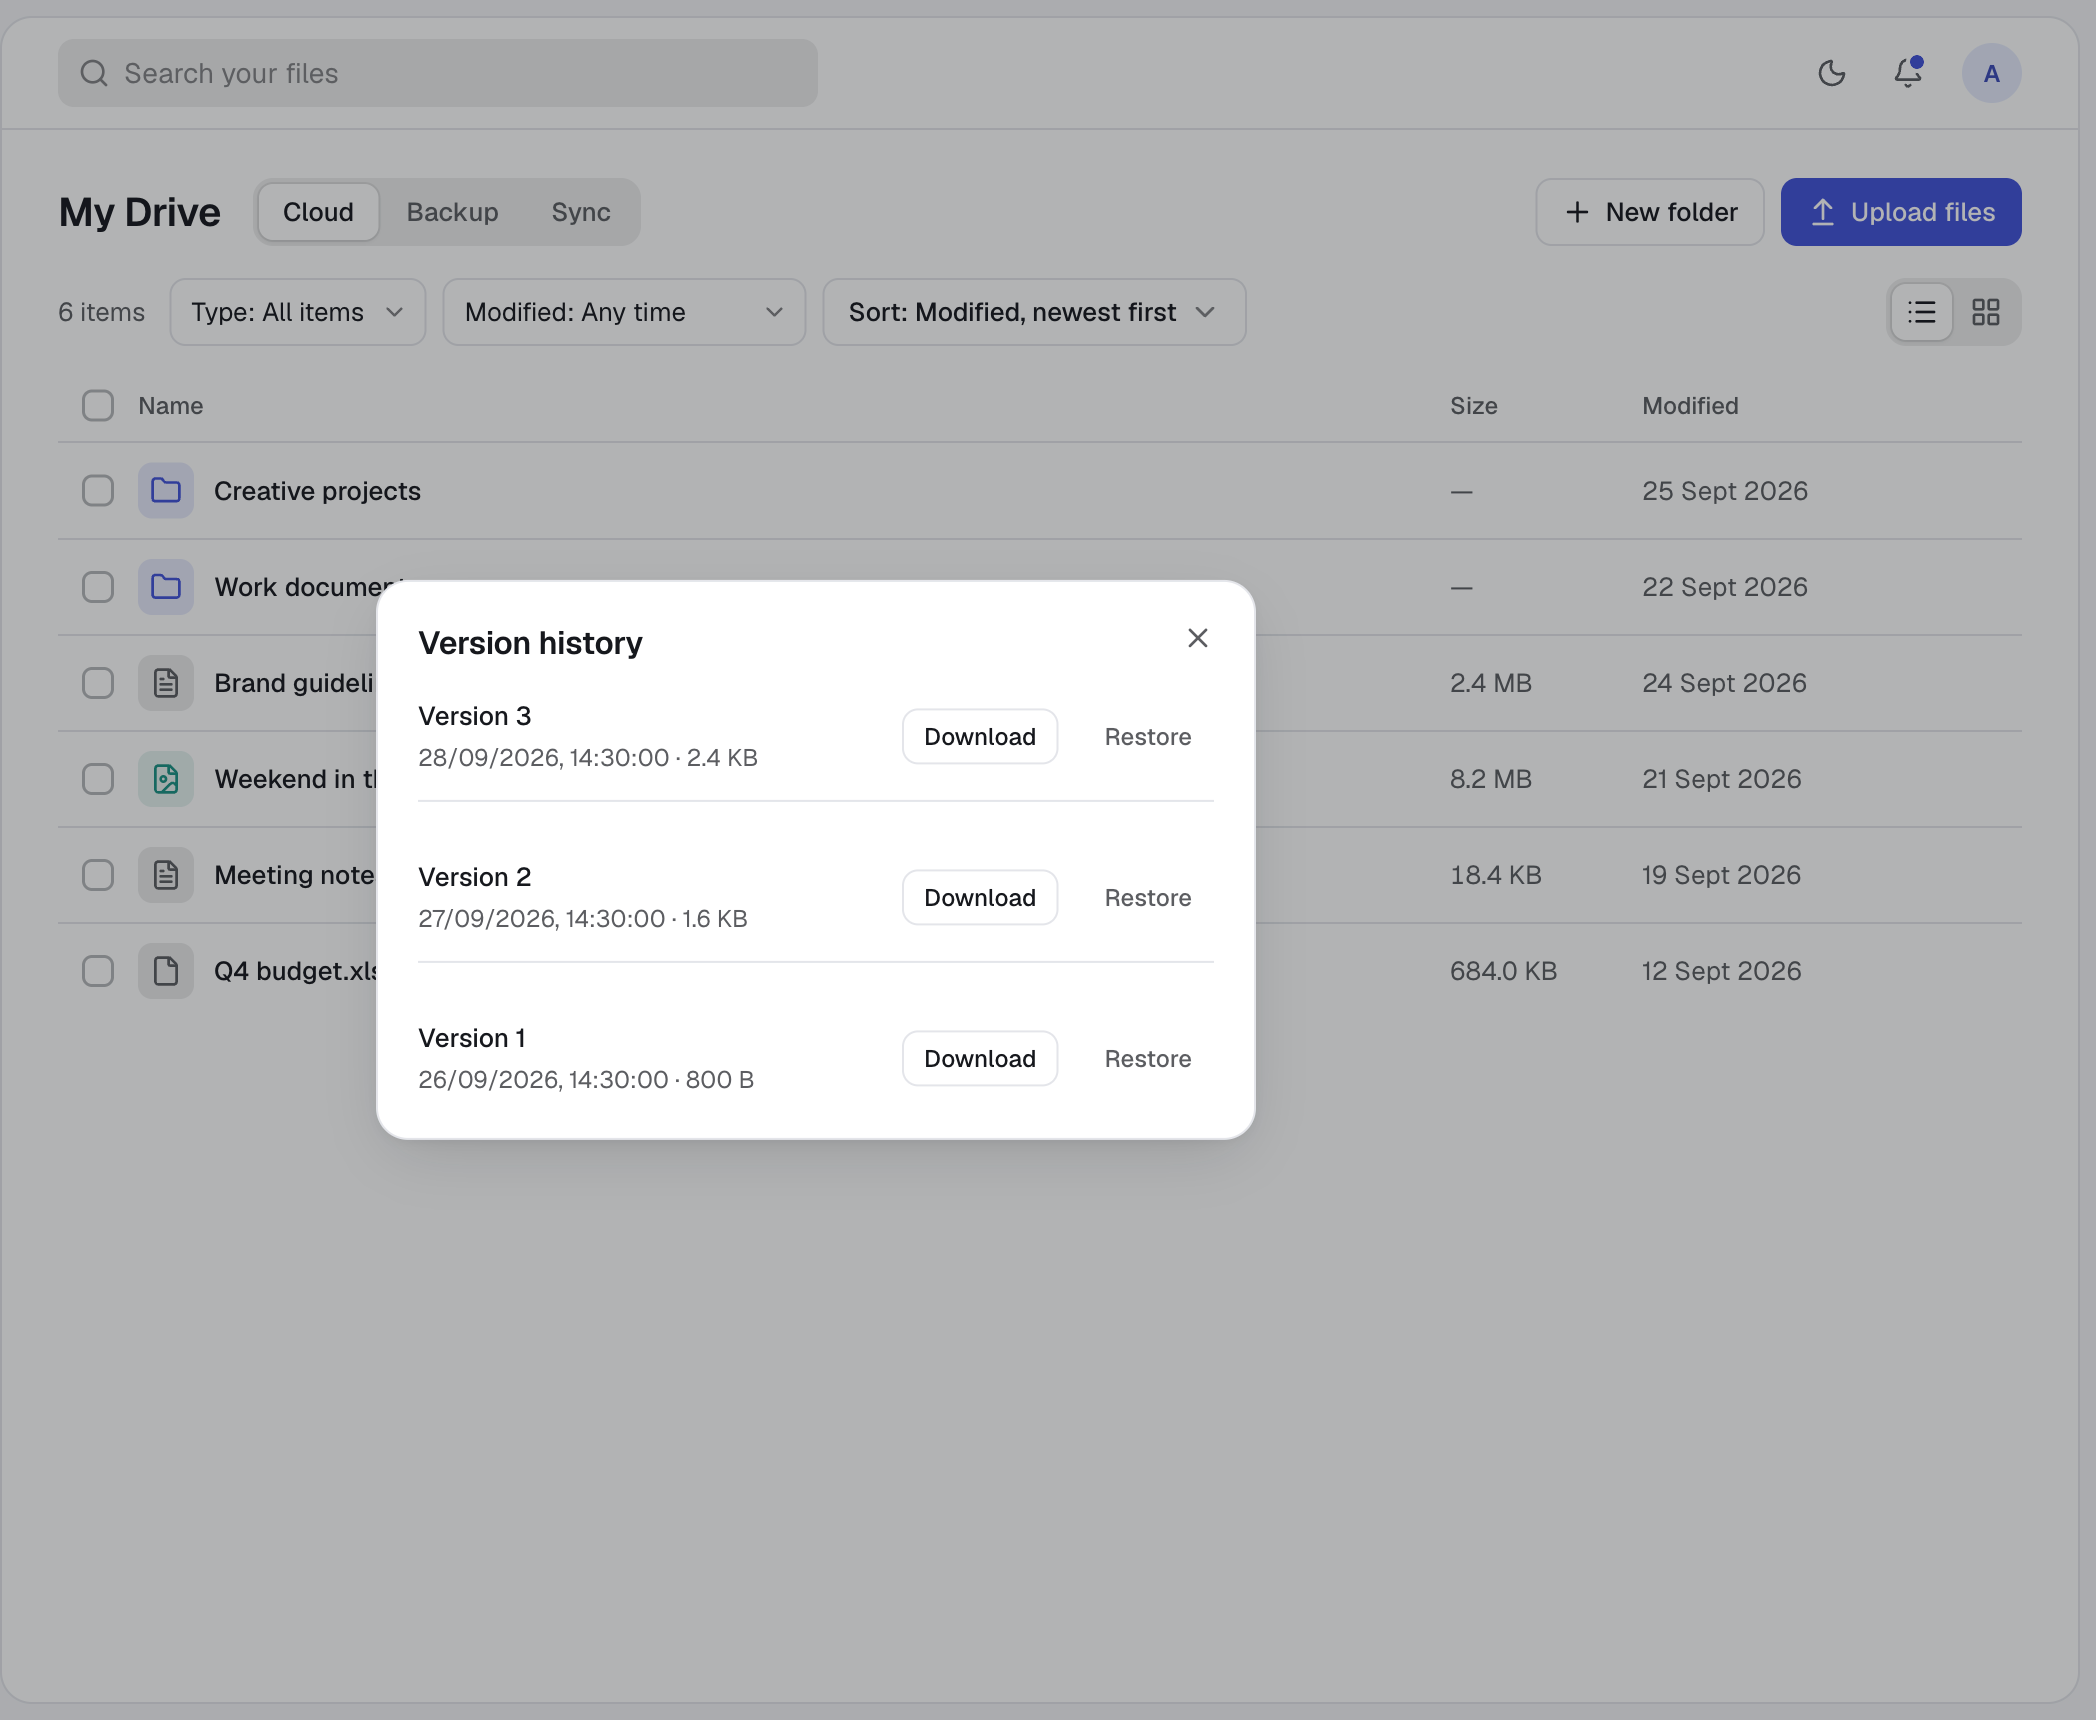
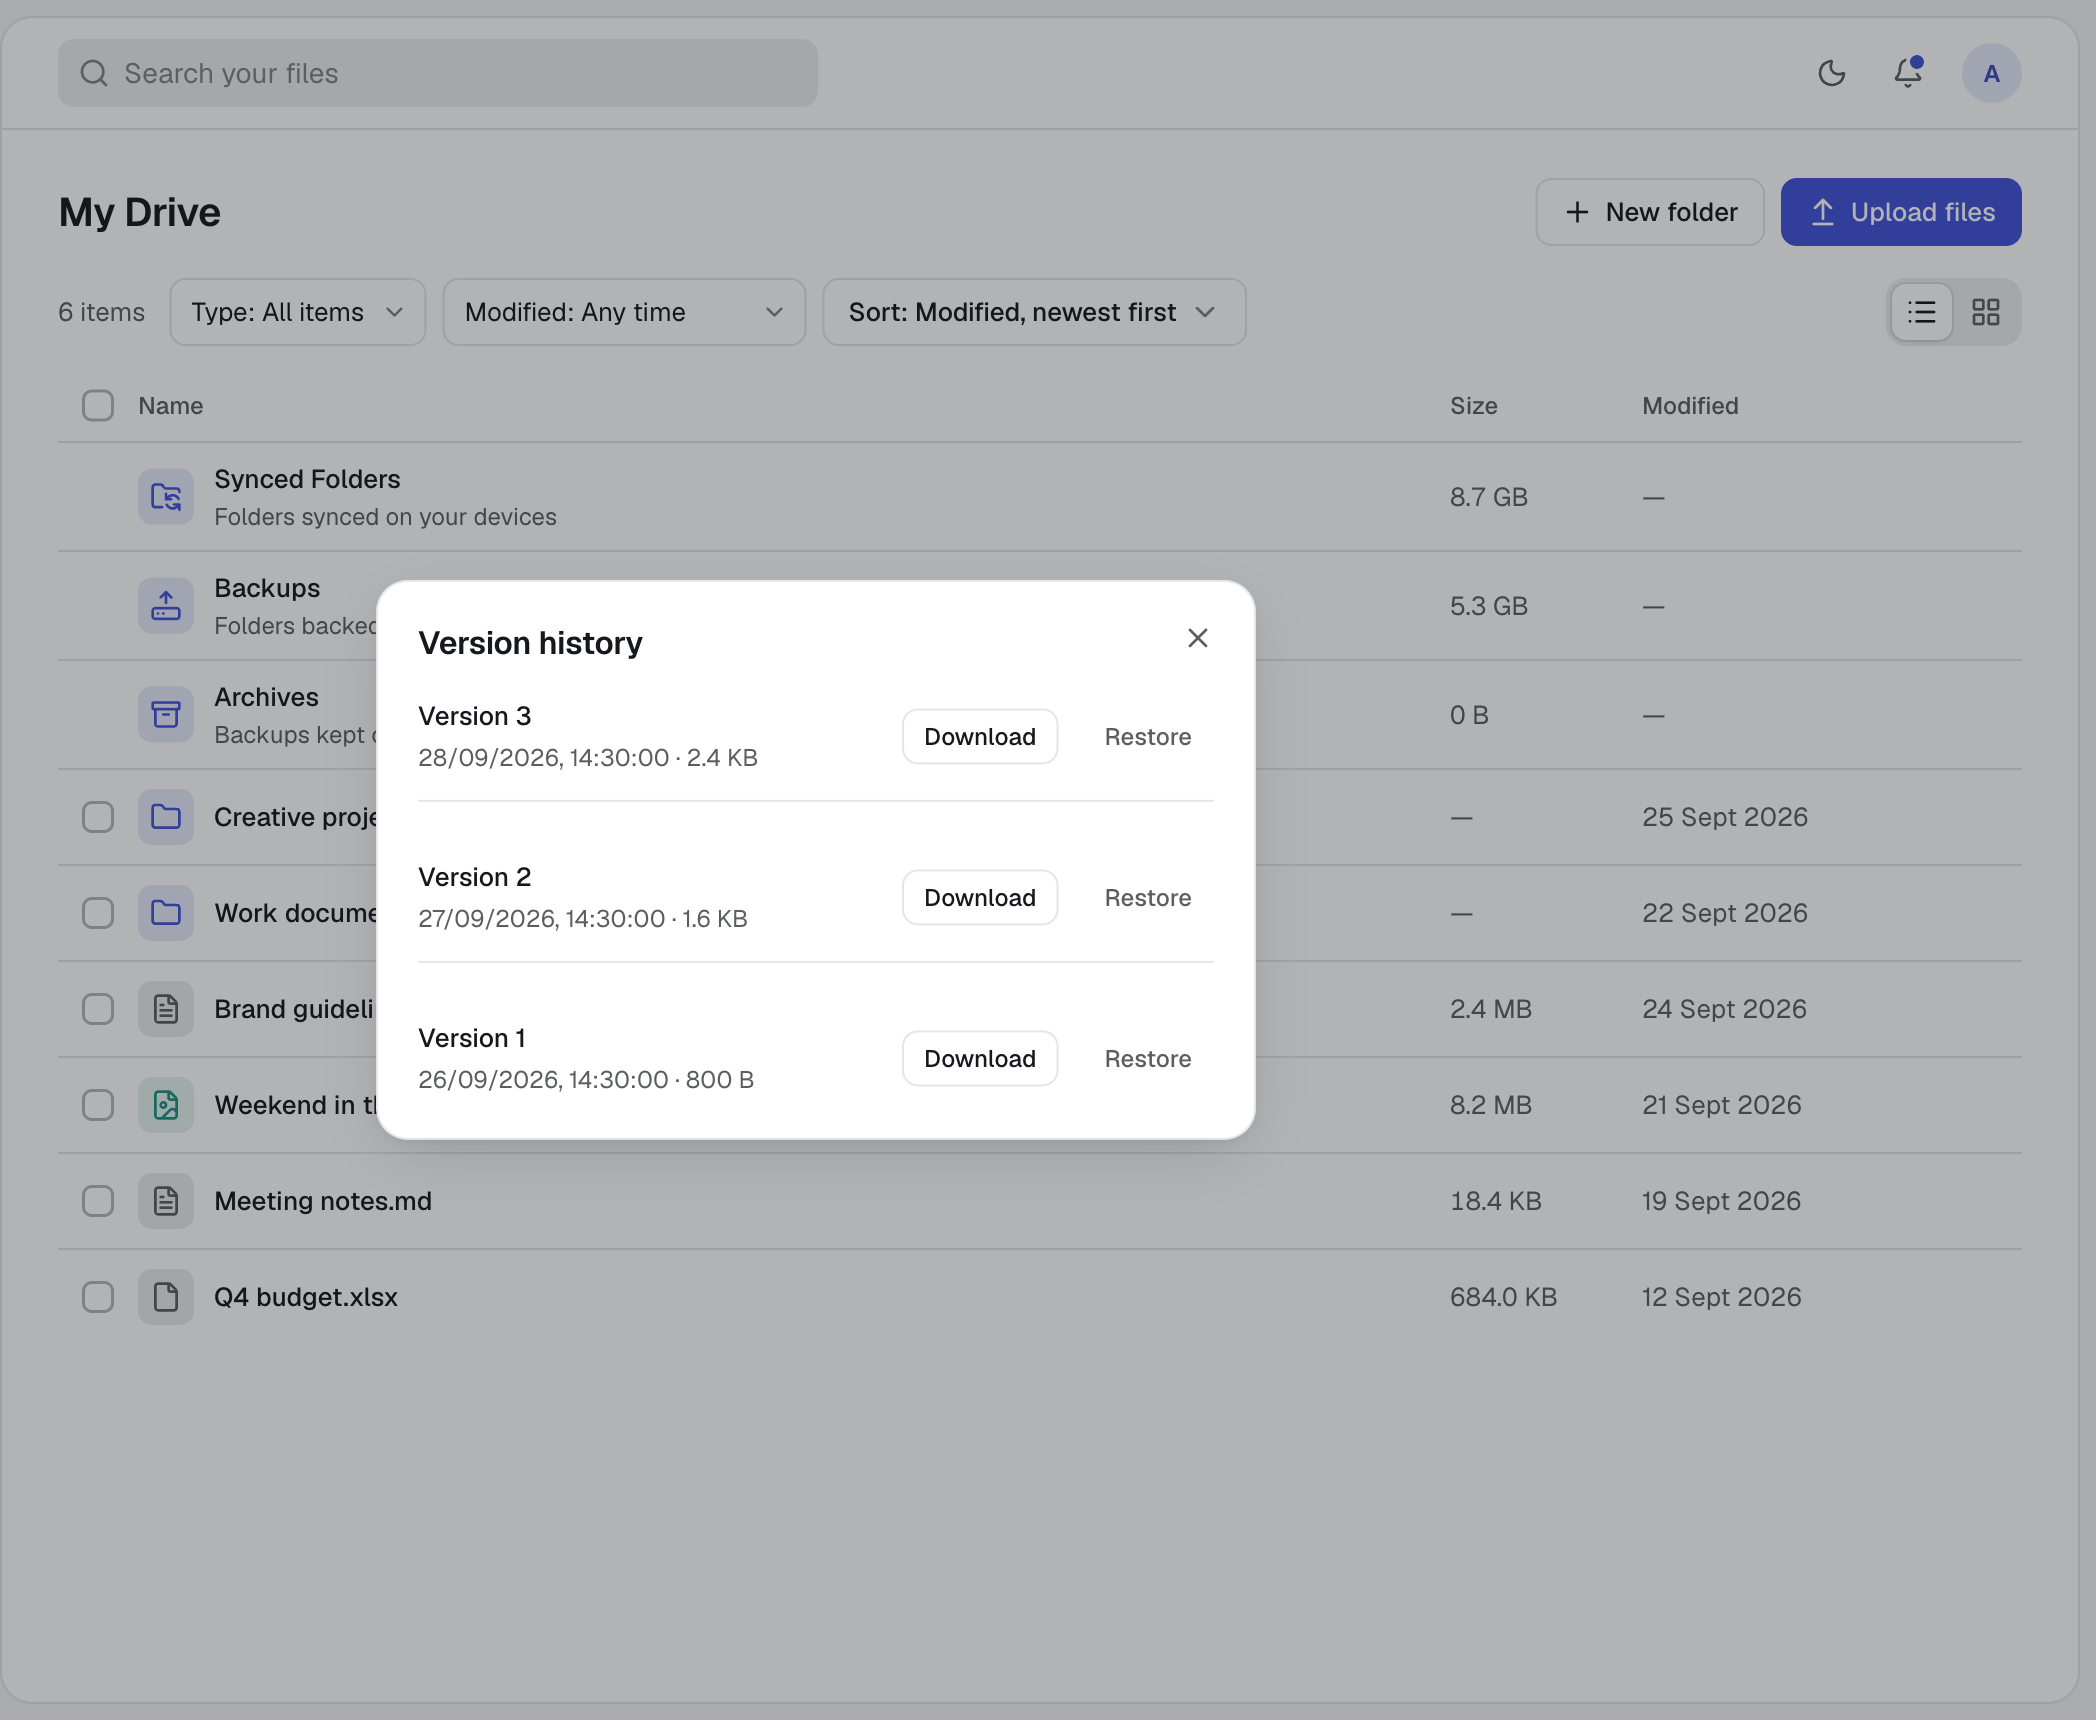
feat(landing): refresh the app screenshots and copy for the new My Drive places
Sync and backups moved out of the sidebar into My Drive's Synced Folders,
Backups and Archives places, so the screenshot script now navigates there
with mocked devices, synced folders, backups and folder sizes. The landing
copy no longer mentions Copy to cloud, temporary cloud copies or the old
Sync and Backups pages.

diff --git a/scripts/landing-shots.ts b/scripts/landing-shots.ts
@@ -62,13 +62,58 @@ try {
       item('proposal', 'Proposal.docx', 'FILE', 412000, 27, { parentId: 'cloud1' }),
       item('invoice', 'Invoice template.xlsx', 'FILE', 96000, 23, { parentId: 'cloud1' }),
     ];
-    const backup = {
-      id: 'backup1',
+    const device = (id: string, name: string, platform: string) => ({
+      id,
+      userId: 'alex',
+      name,
+      platform,
+      appVersion: '0.1.1',
+      devicePublicId: 'pub-' + id,
+      keyFingerprint: null,
+      lastSeenAt: '2026-10-03T09:00:00Z',
+      createdAt: '2026-09-01T09:00:00Z',
+      revokedAt: null,
+      status: 'ACTIVE',
+    });
+    const devices = [
+      device('device1', 'Alex’s MacBook Pro', 'MACOS'),
+      device('device2', 'Studio iMac', 'MACOS'),
+      device('device3', 'Alex’s iPhone', 'IOS'),
+    ];
+    const on = (...ids: string[]) =>
+      ids.map((id) => ({ id, name: devices.find((entry) => entry.id === id)!.name }));
+    const syncFolders = [
+      item('projects-cloud', 'Projects', 'FOLDER', 0, 29, {
+        syncDevices: on('device1', 'device2'),
+      }),
+      item('photos-cloud', 'Photos', 'FOLDER', 0, 28, { syncDevices: on('device1', 'device3') }),
+      item('design-cloud', 'Design assets', 'FOLDER', 0, 27, { syncDevices: on('device1') }),
+    ];
+    const backupRoot = (id: string, name: string, remote: string, deviceId: string) => ({
+      id,
+      userId: 'alex',
       state: 'ACTIVE',
-      deviceId: 'device1',
-      localPathDisplayName: 'Documents',
-      remoteRootDriveItemId: 'cloud1',
+      deviceId,
+      deviceName: devices.find((entry) => entry.id === deviceId)!.name,
+      devicePublicId: 'pub-' + deviceId,
+      localPathDisplayName: name,
+      remoteRootDriveItemId: remote,
       createdAt: '2026-09-20T08:00:00Z',
+      updatedAt: '2026-10-03T08:00:00Z',
+    });
+    const backups = [
+      backupRoot('backup1', 'Documents', 'cloud1', 'device1'),
+      backupRoot('backup2', 'Desktop', 'cloud2', 'device1'),
+      backupRoot('backup3', 'Client work', 'cloud3', 'device2'),
+    ];
+    const usage: Record<string, number> = {
+      'projects-cloud': 482e6,
+      'photos-cloud': 6.3e9,
+      'design-cloud': 1.92e9,
+      cloud1: 96e6,
+      cloud2: 1.4e9,
+      cloud3: 3.8e9,
+      research: 95.4e6,
     };
     const entry = (id: string, displayName: string, itemType: string, mimeType: string | null) => ({
       id,
@@ -155,11 +200,17 @@ try {
       configured: true,
       signedIn: true,
       accountId: 'alex',
+      deviceId: 'device1',
       deviceName: 'Alex’s MacBook Pro',
       roots: [
         root('projects', 'Projects', 482e6),
         root('photos', 'Photos', 6.3e9),
         root('design', 'Design assets', 1.92e9, { shareId: 'share0' }),
+        root('desktop', 'Desktop', 1.4e9, {
+          mode: 'backup',
+          remoteId: 'cloud2',
+          backupId: 'backup2',
+        }),
         root('local1', 'Documents', 96e6, {
           mode: 'backup',
           remoteId: 'cloud1',
@@ -206,7 +257,8 @@ try {
       }),
     ];
     const api = (raw: string) => {
-      const p = new URL(raw, 'http://fixture').pathname;
+      const url = new URL(raw, 'http://fixture');
+      const p = url.pathname;
       if (p === '/v1/users/me')
         return {
           user: { id: 'alex', email: 'alex@example.test', username: 'alex', displayName: 'Alex' },
@@ -221,7 +273,21 @@ try {
       if (p === '/v1/drive/folders/cloud1/children') return { items: archive, nextCursor: null };
       if (p === '/v1/drive/items/cloud1')
         return { item: item('cloud1', 'Documents', 'FOLDER', 0, 20) };
-      if (p === '/v1/backups') return { items: [backup] };
+      if (p === '/v1/backups') return { items: backups };
+      if (p === '/v1/devices') return { items: devices, nextCursor: null };
+      if (p === '/v1/sync/folders') return { items: syncFolders };
+      if (p === '/v1/drive/usage')
+        return {
+          items: url.searchParams
+            .get('ids')!
+            .split(',')
+            .map((itemId) => ({
+              itemId,
+              bytes: usage[itemId] ?? 0,
+              files: 120,
+              complete: true,
+            })),
+        };
       if (p === '/v1/transfers/received') return { items: transfers, nextCursor: null };
       if (p === '/v1/transfers/sent') return { items: sent, nextCursor: null };
       if (p === '/v1/sync/shares') return { items: invitations };
@@ -311,8 +377,20 @@ try {
   await expect(page.getByRole('dialog')).toContainText('Version 3');
   await capture('drive-versions');
   await page.keyboard.press('Escape');
-  await nav.getByRole('button', { name: 'Sync', exact: true }).click();
-  await expect(page.getByRole('heading', { name: /^Sync on/ })).toBeVisible();
+  // Sync and backups live in My Drive's pinned places, each › device › folders.
+  async function openPlace(name: string) {
+    await nav.getByRole('button', { name: 'My Drive', exact: true }).click();
+    await page
+      .locator('.file-entry-pinned')
+      .filter({ has: page.getByText(name, { exact: true }) })
+      .dblclick();
+    await page.locator('.file-entry-pinned').filter({ hasText: 'Alex’s MacBook Pro' }).dblclick();
+    await expect(page.getByRole('heading', { name: 'Alex’s MacBook Pro' })).toBeVisible();
+  }
+  await openPlace('Synced Folders');
+  await expect(page.getByText('Also on Studio iMac')).toBeVisible();
+  await expect(page.getByText(/GB used$/)).toBeVisible();
+  await page.getByRole('button', { name: 'Dismiss sync banner' }).click();
   await capture('sync');
   await nav.getByRole('button', { name: 'Shared', exact: true }).click();
   await expect(page.getByText('Contract draft.pdf')).toBeVisible();
@@ -320,13 +398,15 @@ try {
   await page.getByRole('tab', { name: 'Sent', exact: true }).click();
   await expect(page.getByText('Launch video')).toBeVisible();
   await capture('shared-sent');
-  await nav.getByRole('button', { name: 'Backups', exact: true }).click();
-  await page.locator('.backup-folder-row').filter({ hasText: 'Documents' }).click();
-  await page.getByRole('button', { name: 'Project notes.md' }).click();
-  await expect(page.getByText(/^Version 1 ·/)).toBeVisible();
+  await openPlace('Backups');
+  await page.locator('.file-entry-pinned').filter({ hasText: 'Documents' }).dblclick();
+  await expect(page.getByText('Proposal.docx')).toBeVisible();
+  await page.getByRole('button', { name: 'Actions for Project notes.md', exact: true }).click();
+  await page.getByRole('menuitem', { name: 'Version history', exact: true }).click();
+  await expect(page.getByRole('dialog')).toContainText('Version 3');
   await capture('backups');
   await page.keyboard.press('Escape');
-  await page.getByRole('tab', { name: /^History/ }).click();
+  await page.getByRole('button', { name: 'History', exact: true }).click();
   await page.getByRole('button', { name: /Automatic backup/ }).click();
   await expect(page.locator('.backup-run-files')).toContainText('Proposal.docx');
   await capture('backups-history');

diff --git a/apps/landing/app/features.ts b/apps/landing/app/features.ts
@@ -94,7 +94,10 @@ export const features: Feature[] = [
         'A folder downloads as one ZIP with its subfolders intact. The prepared ZIP is kept for 24 hours.',
       ],
       ['Trash', 'Deleted files wait in the trash until you restore or permanently remove them.'],
-      ['Three views', 'My Drive separates Cloud files, Backup folders and Sync folders.'],
+      [
+        'Devices in one place',
+        'Synced Folders, Backups and Archives sit at the top of My Drive, sorted by the computer or phone each folder comes from.',
+      ],
       ['Stable links', 'A folder keeps the same address when it is renamed or moved.'],
     ],
     questions: [
@@ -116,7 +119,7 @@ export const features: Feature[] = [
     text: 'Pick a folder once and it stays in step on all your computers, and with the people you share it with.',
     shot: syncLight,
     darkShot: syncDark,
-    alt: 'The desktop app listing synced folders and their status',
+    alt: 'My Drive › Synced Folders, listing the folders one computer syncs and where else each is synced',
     notes: [
       { icon: Check, title: 'Up to date', text: 'Nothing to press. Changes go out as you save.' },
       { icon: Users, title: 'Shared folders', text: 'Sync one folder between accounts.' },
@@ -127,7 +130,7 @@ export const features: Feature[] = [
     steps: [
       [
         'Pick a folder',
-        'Choose Add folder to sync and pick any folder on your computer. That is the whole setup.',
+        'Open Synced Folders in My Drive, choose Sync a folder and pick any folder on your computer. That is the whole setup.',
       ],
       [
         'Keep working',
@@ -172,14 +175,14 @@ export const features: Feature[] = [
       ],
       ['Your rules', 'Pause sync whenever you like, and leave chosen subfolders out.'],
       [
-        'Between computers',
-        'The cloud holds a temporary copy only until every computer has the file. To keep one in the cloud too, use Copy to cloud in My Drive, or back the folder up.',
+        'Always in the cloud',
+        'Every synced file is also kept in your account, so a new computer can start syncing even when the others are switched off.',
       ],
     ],
     questions: [
       [
         'Do I need the desktop app?',
-        'Yes, on every computer that syncs, including those of the people you share with. Synced folders can also be browsed on the web under My Drive.',
+        'Yes, on every computer that syncs, including those of the people you share with. Synced folders can also be browsed on the web under My Drive › Synced Folders.',
       ],
       [
         'Does the person I share with need an account?',
@@ -202,7 +205,7 @@ export const features: Feature[] = [
     text: 'Pick a folder once and every version is saved on its own, from all your computers. Restore any of them later.',
     shot: backupsLight,
     darkShot: backupsDark,
-    alt: 'The Backups page with a backed-up folder and the saved versions of one file',
+    alt: 'A backed-up folder in My Drive with its backup status and the saved versions of one file',
     notes: [
       { icon: Clock, title: 'Automatic', text: 'Nothing to press. Versions save themselves.' },
       { icon: RotateCcw, title: 'Restore', text: 'Bring back any saved version.' },
@@ -213,7 +216,7 @@ export const features: Feature[] = [
     steps: [
       [
         'Pick a folder',
-        'Choose Add folder in Backups and pick a folder you already use. Nothing moves and nothing changes on your computer.',
+        'Open Backups in My Drive, choose Back up a folder and pick a folder you already use. Nothing moves and nothing changes on your computer.',
       ],
       [
         'Forget about it',
@@ -229,14 +232,14 @@ export const features: Feature[] = [
       text: 'History lists every backup run with the files it saved. Backups from all your computers sit together in one account, and any version can be downloaded from the web, wherever you are.',
       shot: backupsHistoryLight,
       darkShot: backupsHistoryDark,
-      alt: 'The History tab of a backup folder, listing a run and the files it saved',
+      alt: 'The history of a backup folder, listing a run and the files it saved',
     },
     facts: [
       ['Nothing to press', 'No schedule to set. Each folder shows when it was last backed up.'],
       ['Deleting is safe', 'Deleting a file on your computer leaves every saved version intact.'],
       [
         'All your computers',
-        'Back up folders from each of your computers. They appear together in Backups, with the computer each came from.',
+        'Back up folders from each of your computers. They appear together under Backups in My Drive, grouped by the computer each came from.',
       ],
       [
         'Restore in place',
@@ -264,7 +267,7 @@ export const features: Feature[] = [
       ],
       [
         'What if I delete a file by accident?',
-        'Its saved versions stay. Open the folder in Backups, find the file, and restore or download it.',
+        'Its saved versions stay. Open the folder under Backups in My Drive, find the file, and restore or download it.',
       ],
       [
         'Can I get a file back on a different computer?',
